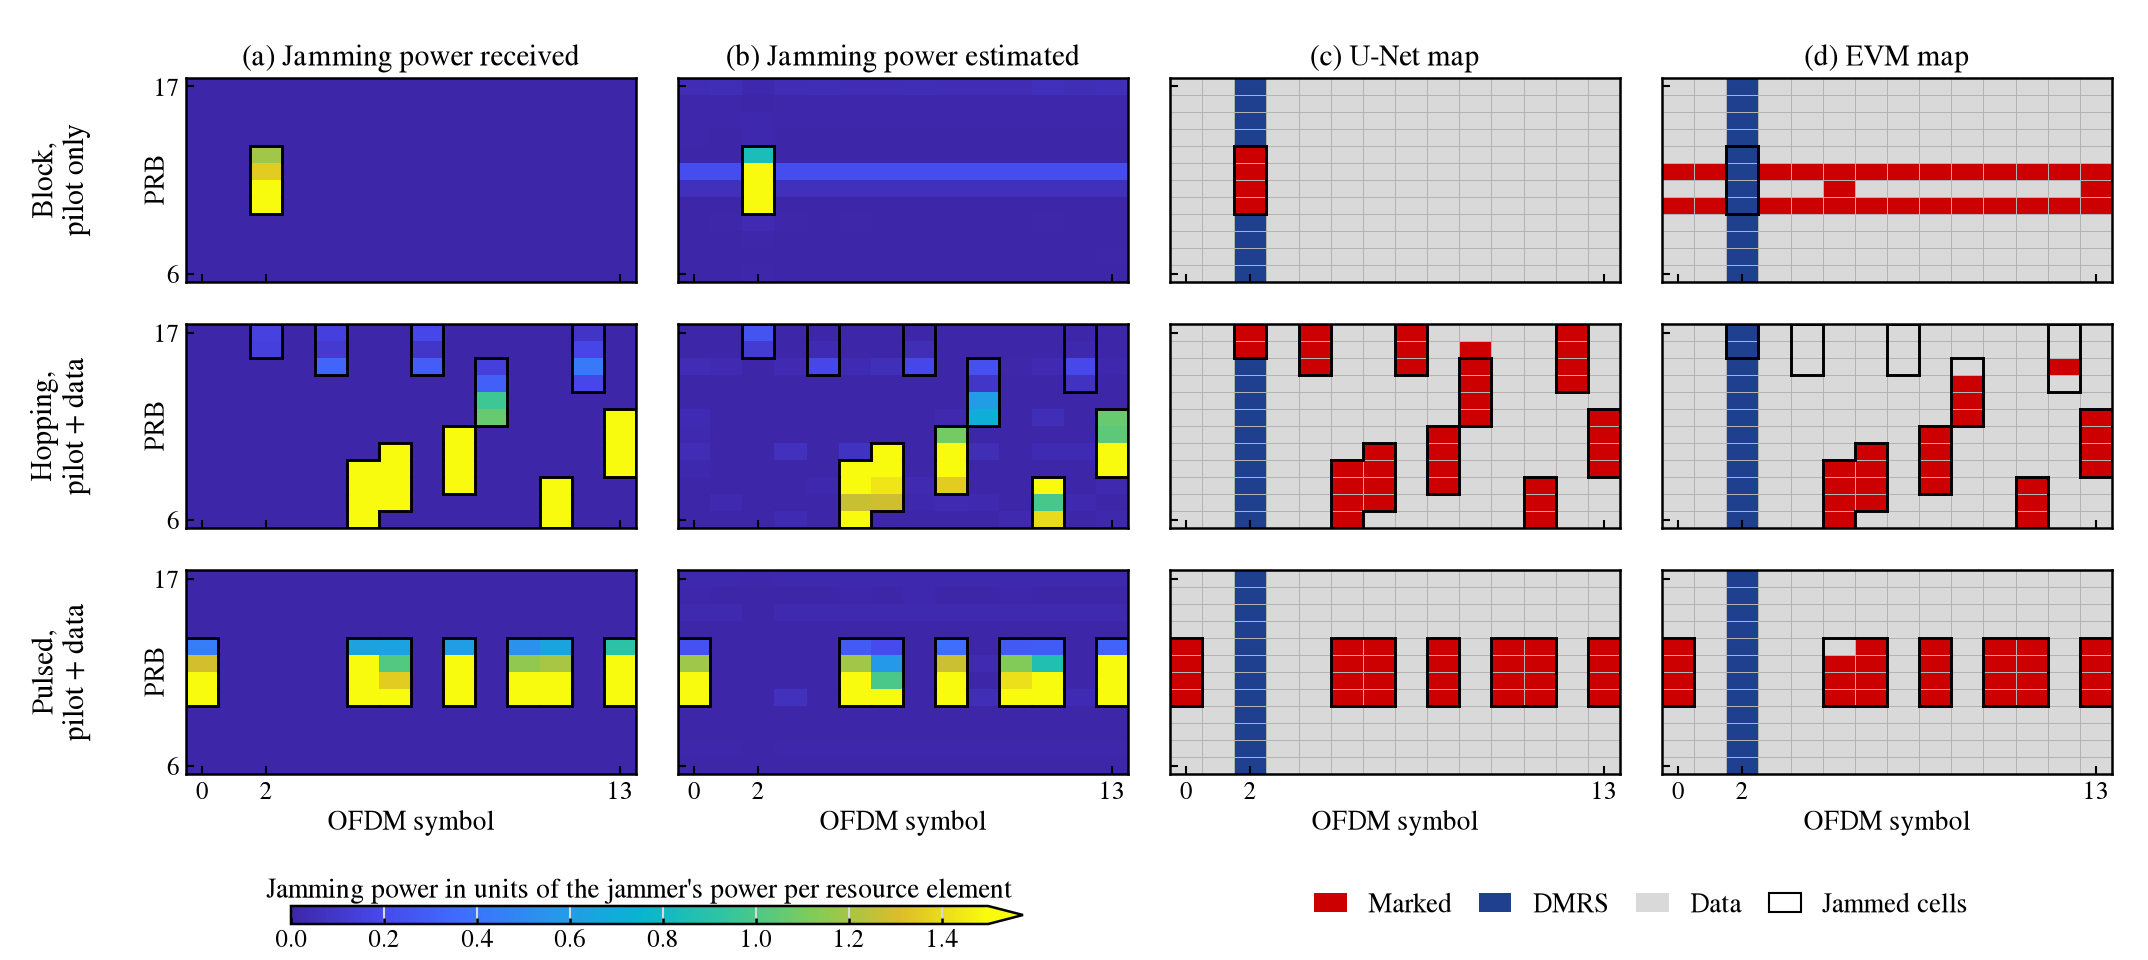
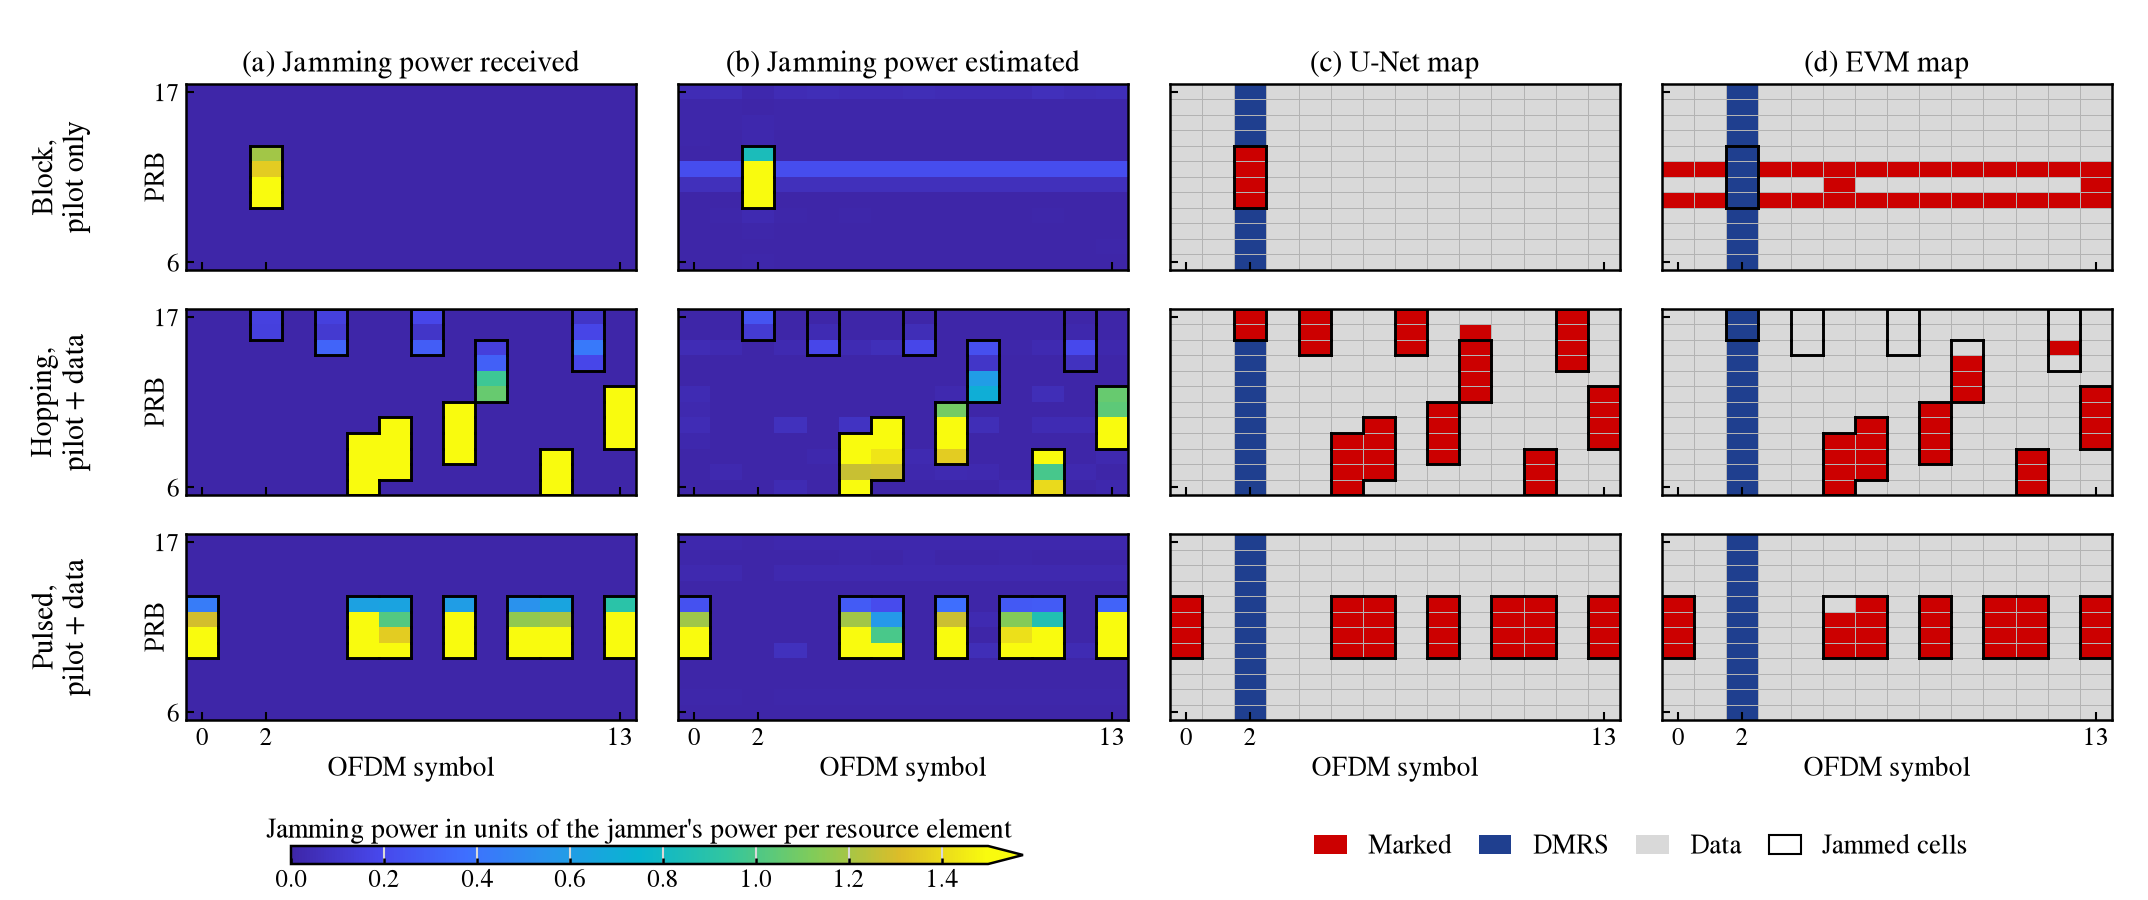
Make the attack-map and curve figures shorter
Both figures lose a little height so that paper v10 keeps six pages.

diff --git a/src/jamloc/experiments/figures.py b/src/jamloc/experiments/figures.py
@@ -1528,9 +1528,9 @@ def attack_maps(jsr_db: float = 6.0, snr_db: float = 15.0, seed: int | None = No
     dmrs = np.zeros((n, CFG.num_symbols), dtype=bool)
     dmrs[:, list(CFG.dmrs_symbols)] = True
 
-    width, height = TEXT_WIDTH, 3.2
+    width, height = TEXT_WIDTH, 3.0
     fig = Figure(figsize=(width, height))
-    left, panel_w, gap, panel_h, row_gap, bottom = 0.62, 1.5, 0.14, 0.68, 0.14, 0.62
+    left, panel_w, gap, panel_h, row_gap, bottom = 0.62, 1.5, 0.14, 0.62, 0.13, 0.6
     # Columns: the two power panels side by side, then the two maps
     titles = (
         "(a) Jamming power received",

diff --git a/src/jamloc/experiments/resolution.py b/src/jamloc/experiments/resolution.py
@@ -208,7 +208,7 @@ def sweep(folders: list[Path], out: Path, panels=SWEEP_PANELS, groups=()) -> Non
                 data[(stem, *key)] = v
     with paper_style():
         if groups:  # one subfigure per group, with its label on top
-            fig = Figure(figsize=(7.16, 2.15), layout="constrained")
+            fig = Figure(figsize=(7.16, 1.9), layout="constrained")
             widths = [last - first + 1 for first, last, _ in groups]
             subfigs = fig.subfigures(1, len(groups), width_ratios=widths, wspace=0.01)
             axes = []
